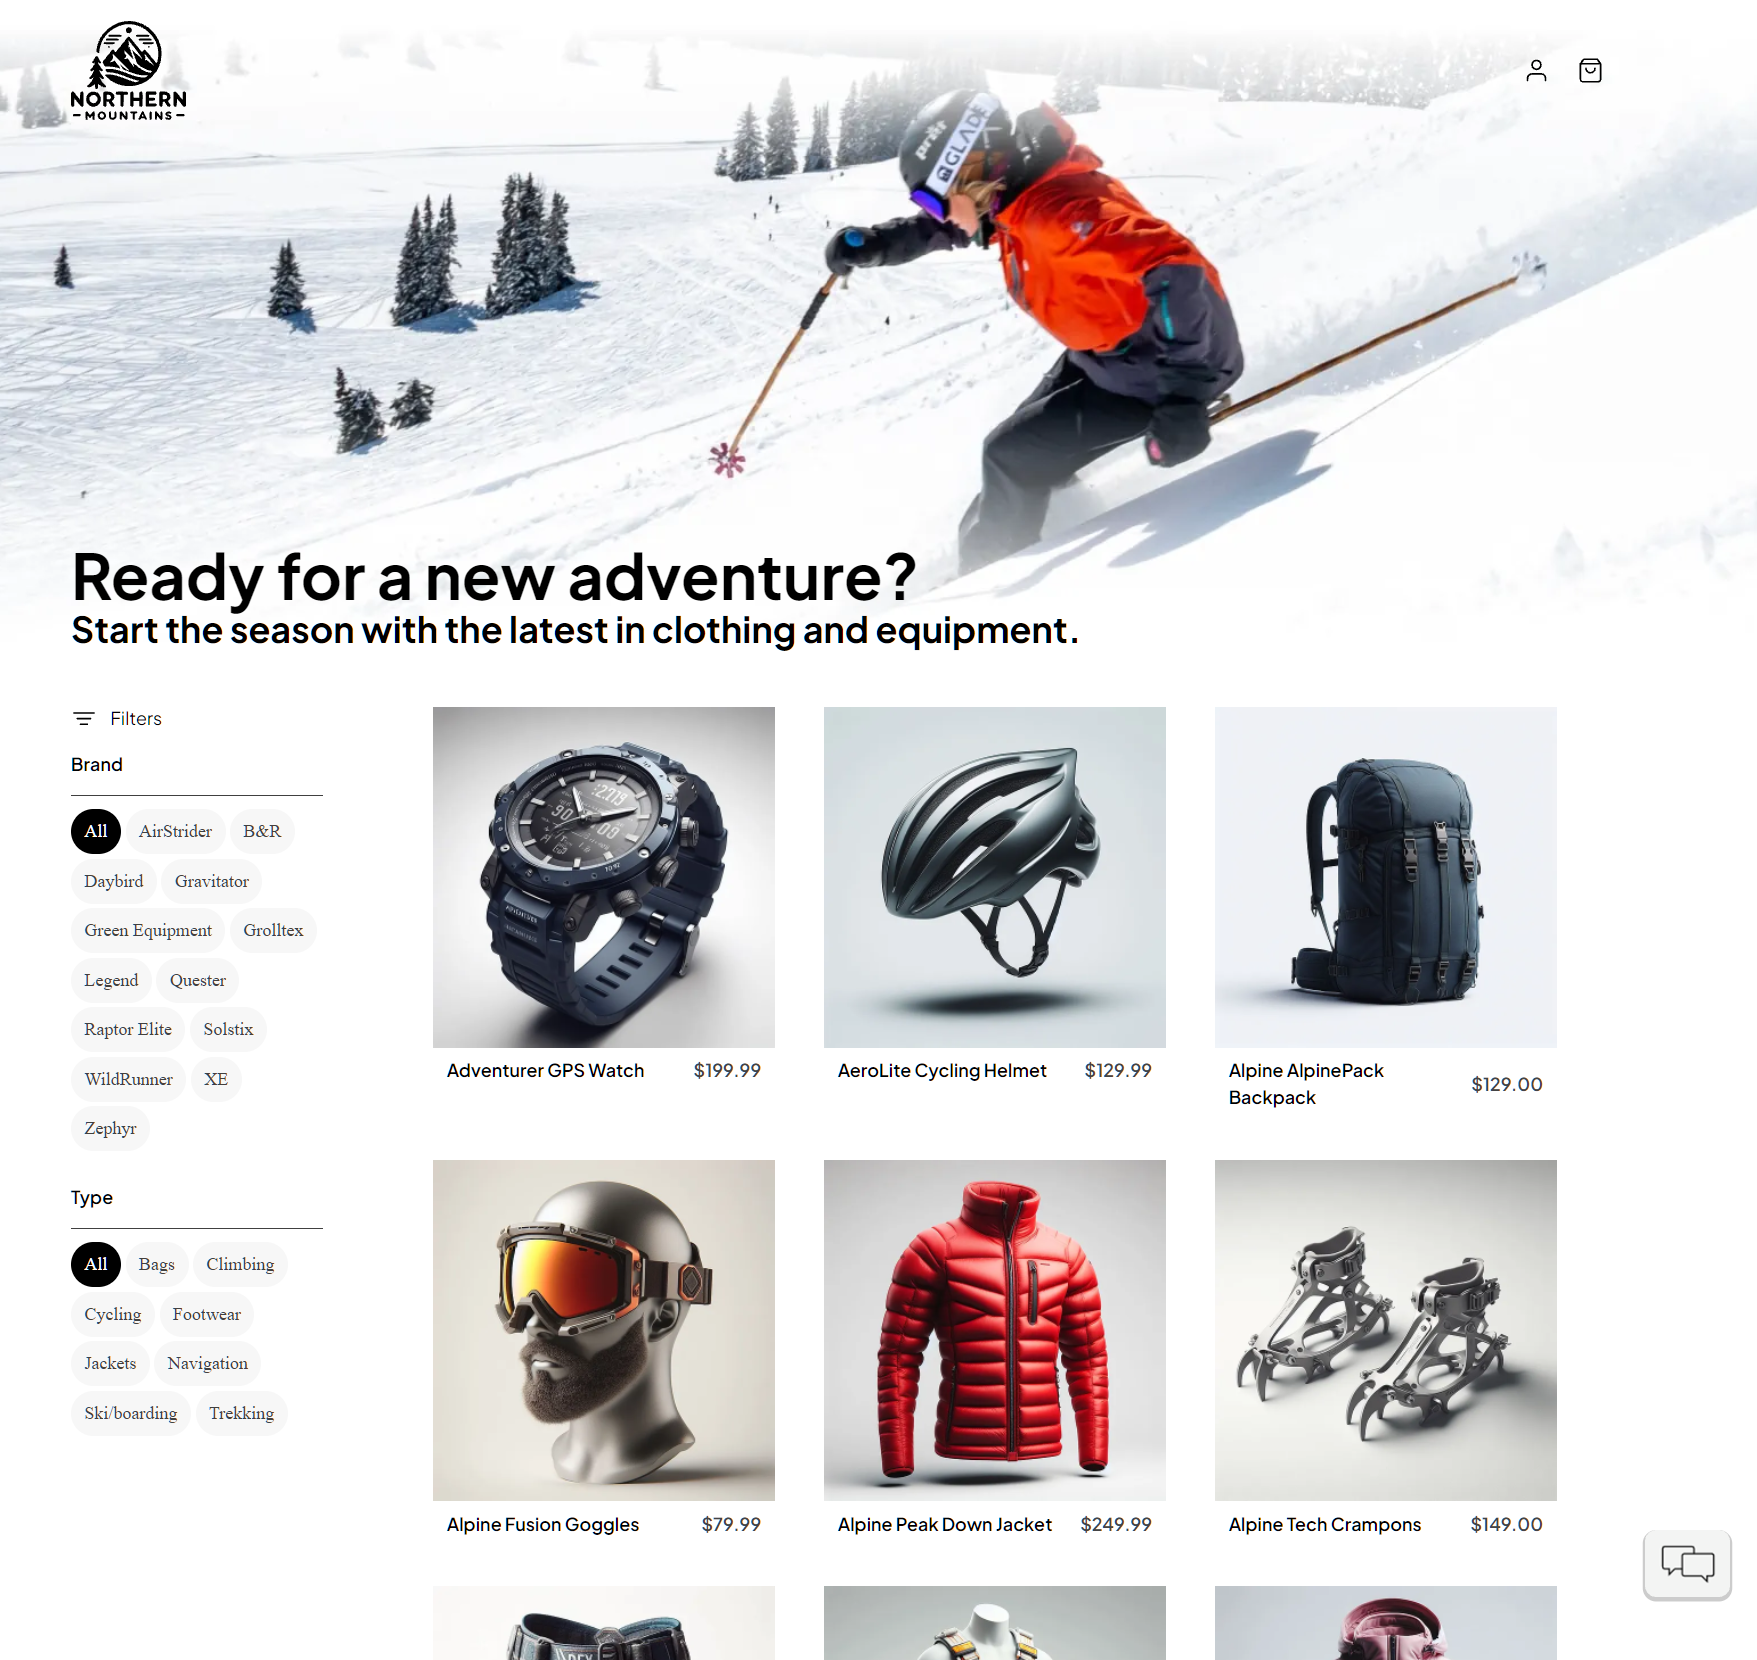
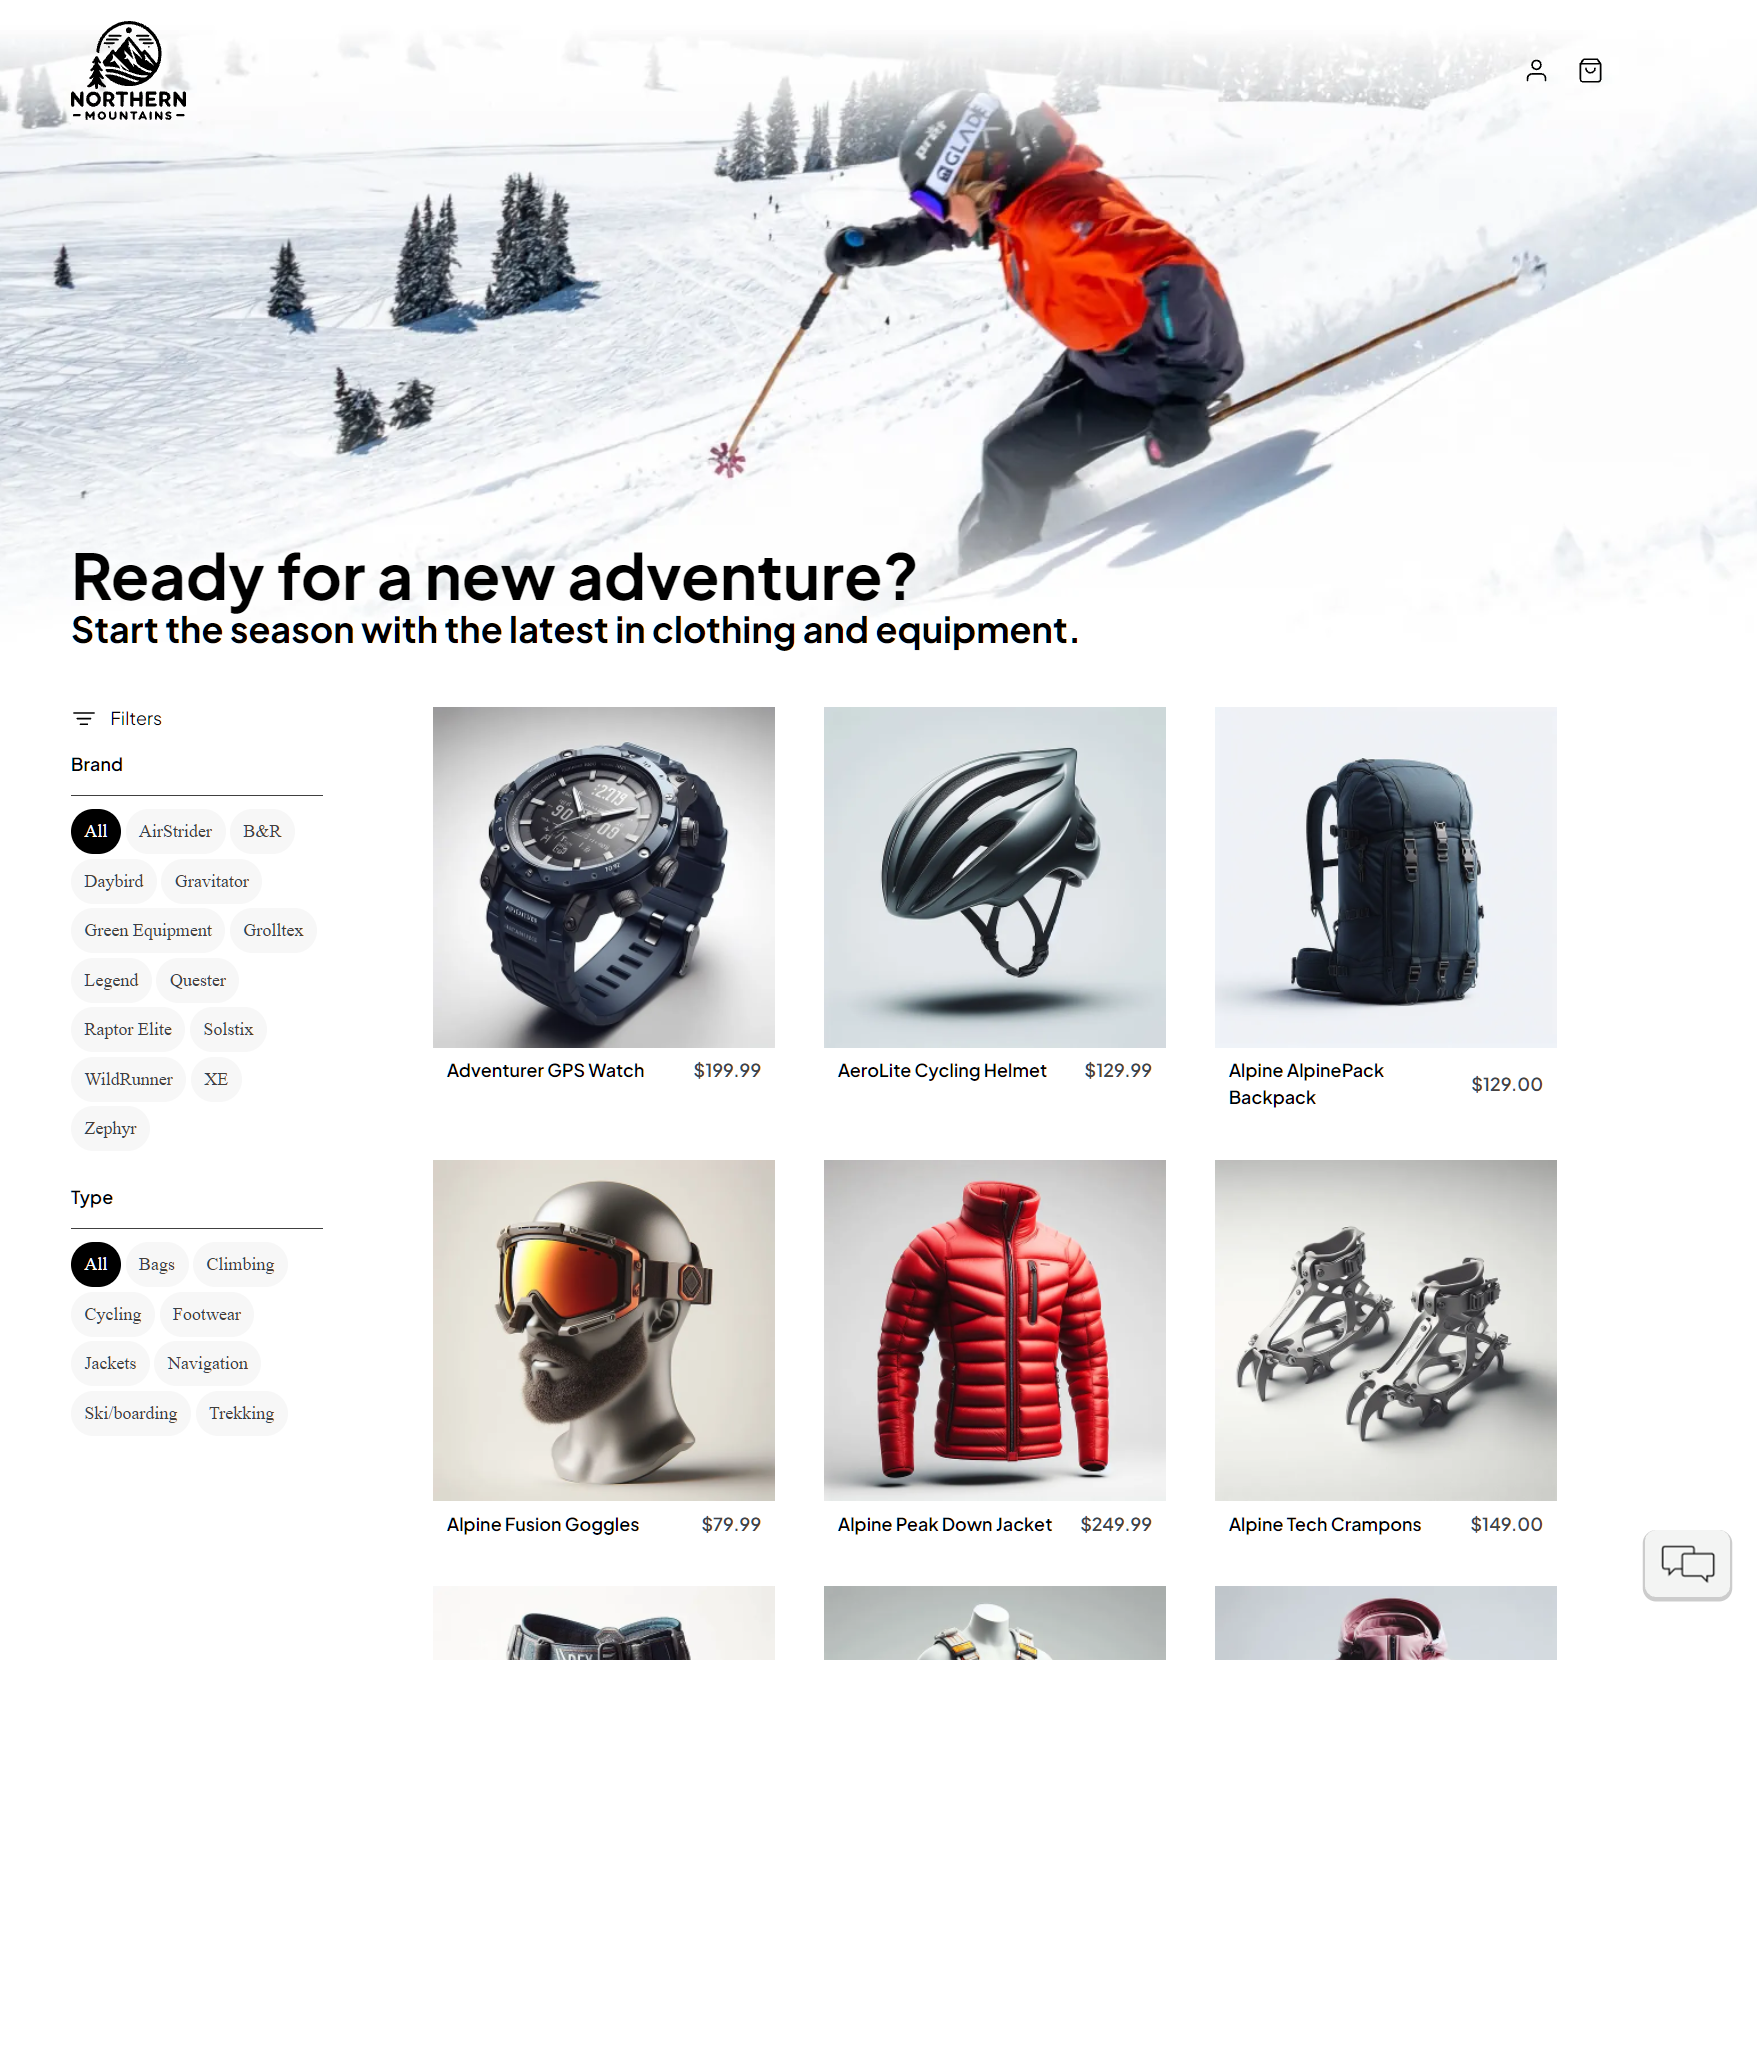
fix(ClientApp): pad homepage image canvas 400px for added artwork

diff --git a/src/ClientApp/Converters/WidthToHeightConverter.cs b/src/ClientApp/Converters/WidthToHeightConverter.cs
@@ -1,0 +1,57 @@
+using System;
+using System.Globalization;
+using Avalonia.Data.Converters;
+
+namespace eShop.ClientApp.Converters
+{
+    // Turns a (typically bound) width into a proportional height for an image whose
+    // aspect ratio is supplied via ConverterParameter ("width,height" or "ratio").
+    public sealed class WidthToHeightConverter : IValueConverter
+    {
+        public static readonly WidthToHeightConverter Instance = new();
+
+        public double DefaultAspectRatio { get; init; } = 2060d / 1757d;
+
+        public object? Convert(object? value, Type targetType, object? parameter, CultureInfo culture)
+        {
+            if (value is not double width || double.IsNaN(width) || width <= 0)
+            {
+                return null;
+            }
+
+            double ratio = DefaultAspectRatio;
+
+            if (parameter is string text && !string.IsNullOrWhiteSpace(text))
+            {
+                text = text.Trim();
+                if (text.Contains(',') && text.Split(',') is { Length: 2 } parts
+                    && double.TryParse(parts[0], NumberStyles.Float, CultureInfo.InvariantCulture, out var h)
+                    && double.TryParse(parts[1], NumberStyles.Float, CultureInfo.InvariantCulture, out var w)
+                    && w > 0)
+                {
+                    ratio = h / w;
+                }
+                else if (text.Contains('/') && text.Split('/') is { Length: 2 } frac
+                         && double.TryParse(frac[0], NumberStyles.Float, CultureInfo.InvariantCulture, out var n)
+                         && double.TryParse(frac[1], NumberStyles.Float, CultureInfo.InvariantCulture, out var d)
+                         && d > 0)
+                {
+                    ratio = n / d;
+                }
+                else if (double.TryParse(text, NumberStyles.Float, CultureInfo.InvariantCulture, out var r) && r > 0)
+                {
+                    ratio = r;
+                }
+            }
+            else if (parameter is double r && r > 0)
+            {
+                ratio = r;
+            }
+
+            return width * ratio;
+        }
+
+        public object? ConvertBack(object? value, Type targetType, object? parameter, CultureInfo culture)
+            => throw new NotSupportedException();
+    }
+}
